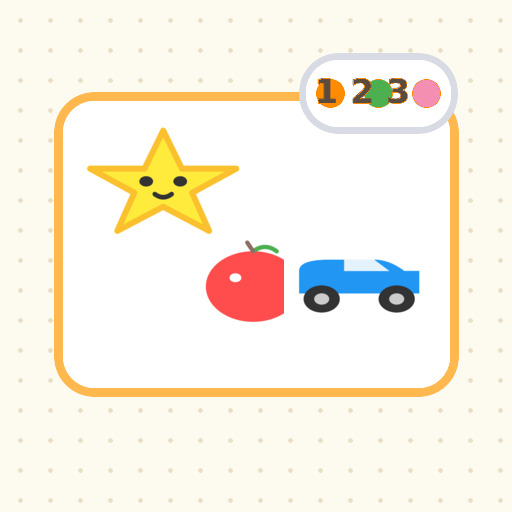
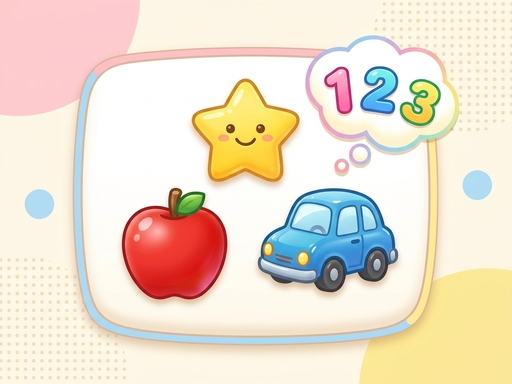
feat: refresh count tap artwork

diff --git a/games/001_count_tap/js/game.js b/games/001_count_tap/js/game.js
@@ -10,7 +10,7 @@
         currentCount: 0,
         objects: [],
         backgroundLayer: null,
-        backgroundTexture: 'games/001_count_tap/images/background_meadow.svg',
+        backgroundTexture: 'games/001_count_tap/images/background_meadow.png',
         textures: ['games/001_count_tap/images/apple.svg', 'games/001_count_tap/images/car.svg', 'games/001_count_tap/images/star.svg']
     };
 
@@ -55,17 +55,6 @@
         selectedStickerId: null
     };
 
-    function drawCloud(layer, x, y, scale) {
-        const cloud = new window.PIXI.Graphics();
-        cloud.beginFill(0xffffff, 0.88);
-        cloud.drawEllipse(x, y, 42 * scale, 22 * scale);
-        cloud.drawCircle(x - (24 * scale), y, 18 * scale);
-        cloud.drawCircle(x, y - (12 * scale), 22 * scale);
-        cloud.drawCircle(x + (26 * scale), y - (2 * scale), 17 * scale);
-        cloud.endFill();
-        layer.addChild(cloud);
-    }
-
     function drawBackground() {
         const width = app.screen.width;
         const height = app.screen.height;
@@ -81,56 +70,6 @@
         backgroundSprite.width = width;
         backgroundSprite.height = height;
         layer.addChild(backgroundSprite);
-
-        const skyGlow = new window.PIXI.Graphics();
-        skyGlow.beginFill(0xfff6de, 0.2);
-        skyGlow.drawCircle(width * 0.82, height * 0.2, Math.min(width, height) * 0.18);
-        skyGlow.endFill();
-        layer.addChild(skyGlow);
-
-        const pinkGlow = new window.PIXI.Graphics();
-        pinkGlow.beginFill(0xf8bfd1, 0.22);
-        pinkGlow.drawCircle(width * 0.15, height * 0.18, Math.min(width, height) * 0.16);
-        pinkGlow.endFill();
-        layer.addChild(pinkGlow);
-
-        drawCloud(layer, width * 0.22, height * 0.2, 1);
-        drawCloud(layer, width * 0.72, height * 0.28, 0.92);
-        drawCloud(layer, width * 0.52, height * 0.14, 0.75);
-
-        const hillBack = new window.PIXI.Graphics();
-        hillBack.beginFill(0xd7efc7);
-        hillBack.drawEllipse(width * 0.2, height * 1.02, width * 0.34, height * 0.2);
-        hillBack.drawEllipse(width * 0.78, height * 1.01, width * 0.3, height * 0.19);
-        hillBack.endFill();
-        layer.addChild(hillBack);
-
-        const hillFront = new window.PIXI.Graphics();
-        hillFront.beginFill(0xbfe5a8);
-        hillFront.drawEllipse(width * 0.5, height * 1.03, width * 0.48, height * 0.22);
-        hillFront.endFill();
-        layer.addChild(hillFront);
-
-        const flowerColors = [0xffb74d, 0xf48fb1, 0x81c784, 0x64b5f6];
-        flowerColors.forEach((color, index) => {
-            const flower = new window.PIXI.Graphics();
-            const x = width * (0.14 + (index * 0.22));
-            const y = height * 0.86 + ((index % 2) * 12);
-            flower.lineStyle(4, 0x6fb06a, 1);
-            flower.moveTo(x, y);
-            flower.lineTo(x, y + 44);
-            flower.beginFill(color, 0.95);
-            flower.drawCircle(x, y, 10);
-            flower.drawCircle(x - 12, y + 6, 10);
-            flower.drawCircle(x + 12, y + 6, 10);
-            flower.drawCircle(x - 6, y - 10, 10);
-            flower.drawCircle(x + 6, y - 10, 10);
-            flower.endFill();
-            flower.beginFill(0xfff9c4, 1);
-            flower.drawCircle(x, y, 7);
-            flower.endFill();
-            layer.addChild(flower);
-        });
 
         app.stage.addChildAt(layer, 0);
         state.backgroundLayer = layer;
